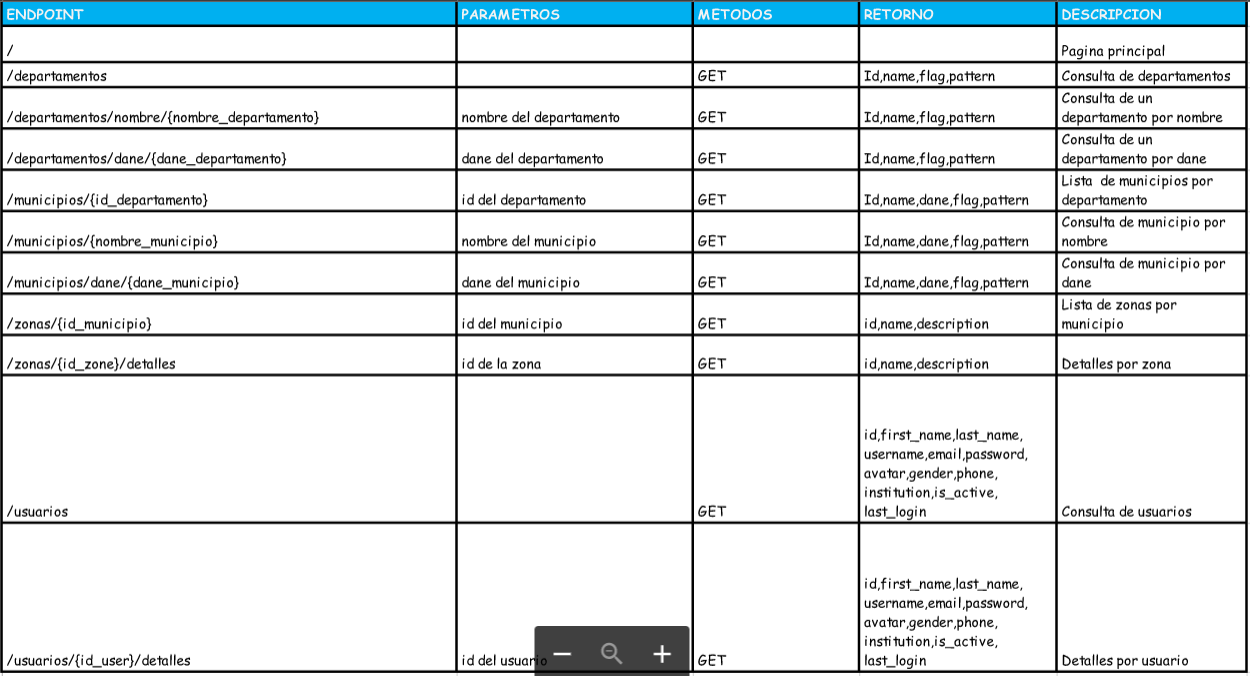
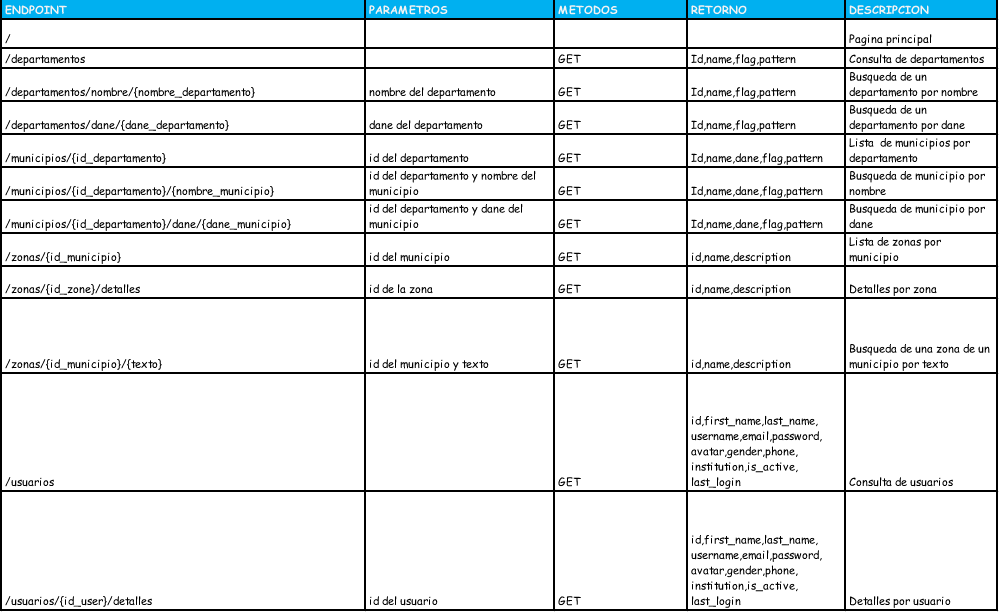
Actualizacion-Endpoints

Changed region(s): [[0.0, 0.0, 1.0, 1.0]]

diff --git a/Source/Backend/routes/web.php b/Source/Backend/routes/web.php
@@ -21,25 +21,30 @@ Route::resource('usuario-auto','Usuario_autorizadoController');
 Route::resource('usuario','Usuario_anonimoController');*/
 
 Route::get('departamentos', 'DepartamentosController@index')->middleware('cors');
+//Ruta para consultar lista de departamentos
+Route::get('departamentos/nombre/{name_departamento}', 'DepartamentosController@show')->middleware('cors');
+//Ruta para realizar busqueda de un departamento por su nombre
+Route::get('departamentos/dane/{dane_departamento}', 'DepartamentosController@showdane')->middleware('cors');
+//Ruta para realizar busqueda de un departamento por su dane
 
-Route::get('municipios/{departamento}', 'MunicipiosController@show')->middleware('cors');
+Route::get('municipios/{id_departamento}', 'MunicipiosController@show')->middleware('cors');
+//Ruta para consultar lista de municipios de un departamento
+Route::get('municipios/{id_departamento}/nombre/{name_departamento}', 'MunicipiosController@showname')->middleware('cors');
+//Ruta para realizar busqueda de un municipio de un departamento por su nombre
+Route::get('municipios/{id_departamento}/dane/{dane_departamento}', 'MunicipiosController@showdane')->middleware('cors');
+//Ruta para realizar busqueda de un municipio de un departamento por su dane
 
-Route::get('zonas/{municipio}', 'ZonasController@show')->middleware('cors');
-
-Route::get('zonas/{zona}/detalles', 'ZonasController@detail')->middleware('cors');
+Route::get('zonas/{id_municipio}', 'ZonasController@show')->middleware('cors');
+//Ruta para consultar lista de zonas de un municipio
+Route::get('zonas/{id_zona}/detalles', 'ZonasController@detail')->middleware('cors');
+//Ruta para consultar detalles de una zona 
+Route::get('zonas/{id_municipio}/{texto}','ZonasController@showText')->middleware('cors');
+//Ruta para realizar busqueda de una zona de un municipio por texto 
 
 Route::get('usuarios', 'UsuariosController@index')->middleware('cors');
-
-Route::get('usuarios/{usuario}/detalles', 'UsuariosController@detail')->middleware('cors');
-
-
-Route::get('departamentos/nombre/{name_departamento}', 'DepartamentosController@show')->middleware('cors');
-
-Route::get('departamentos/dane/{dane_departamento}', 'DepartamentosController@showdane')->middleware('cors');
-
-Route::get('municipios/nombre/{name_departamento}', 'MunicipiosController@showname')->middleware('cors');
-
-Route::get('municipios/dane/{dane_departamento}', 'MunicipiosController@showdane')->middleware('cors');
+//Ruta para consultar lista de usuarios
+Route::get('usuarios/{id_usuario}/detalles', 'UsuariosController@detail')->middleware('cors');
+//Ruta par consultar detalles de un usuario
 
 
 
@@ -52,7 +57,8 @@ Route::get('municipios/dane/{dane_departamento}', 'MunicipiosController@showdane
 
 
 
-Route::resource('usuario','Usuariocontroller');
+
+//Route::resource('usuario','Usuariocontroller');
 
 Auth::routes();
 

diff --git a/Source/Backend/app/Http/Controllers/MunicipiosController.php b/Source/Backend/app/Http/Controllers/MunicipiosController.php
@@ -53,20 +53,20 @@ class MunicipiosController extends Controller
         return response()->json($municipios);
     }
 
-      public function showname($name)
+      public function showname($id_departamento,$name)
     {
         /*$municipios = Place::consultanombremunicipios($name);
         return response()->json($municipios);*/
 
-        $municipios=Place::searchNameCities($name,109);
+        $municipios=Place::searchNameCities($name,$id_departamento);
         return response()->json($municipios);
     }
 
-      public function showdane($dane)
+      public function showdane($id_departamento,$dane)
     {
       /*  $municipios = Place::consultadanemunicipios($dane);
         return response()->json($municipios);*/
-       $municipios=Place::searchDaneCities($dane,109);
+       $municipios=Place::searchDaneCities($dane,$id_departamento);
         return response()->json($municipios);
 
     }

diff --git a/Source/Backend/app/Http/Controllers/ZonasController.php b/Source/Backend/app/Http/Controllers/ZonasController.php
@@ -38,6 +38,15 @@ class ZonasController extends Controller
         return response()->json($zone);
 
     }
+      public function showText($id,$texto)
+    {
+
+        //
+       $zones=Zone::searchDetailZones($texto, $id);
+       return response()->json($zones);
+
+
+    }
     /**
      * Store a newly created resource in storage.
      *
